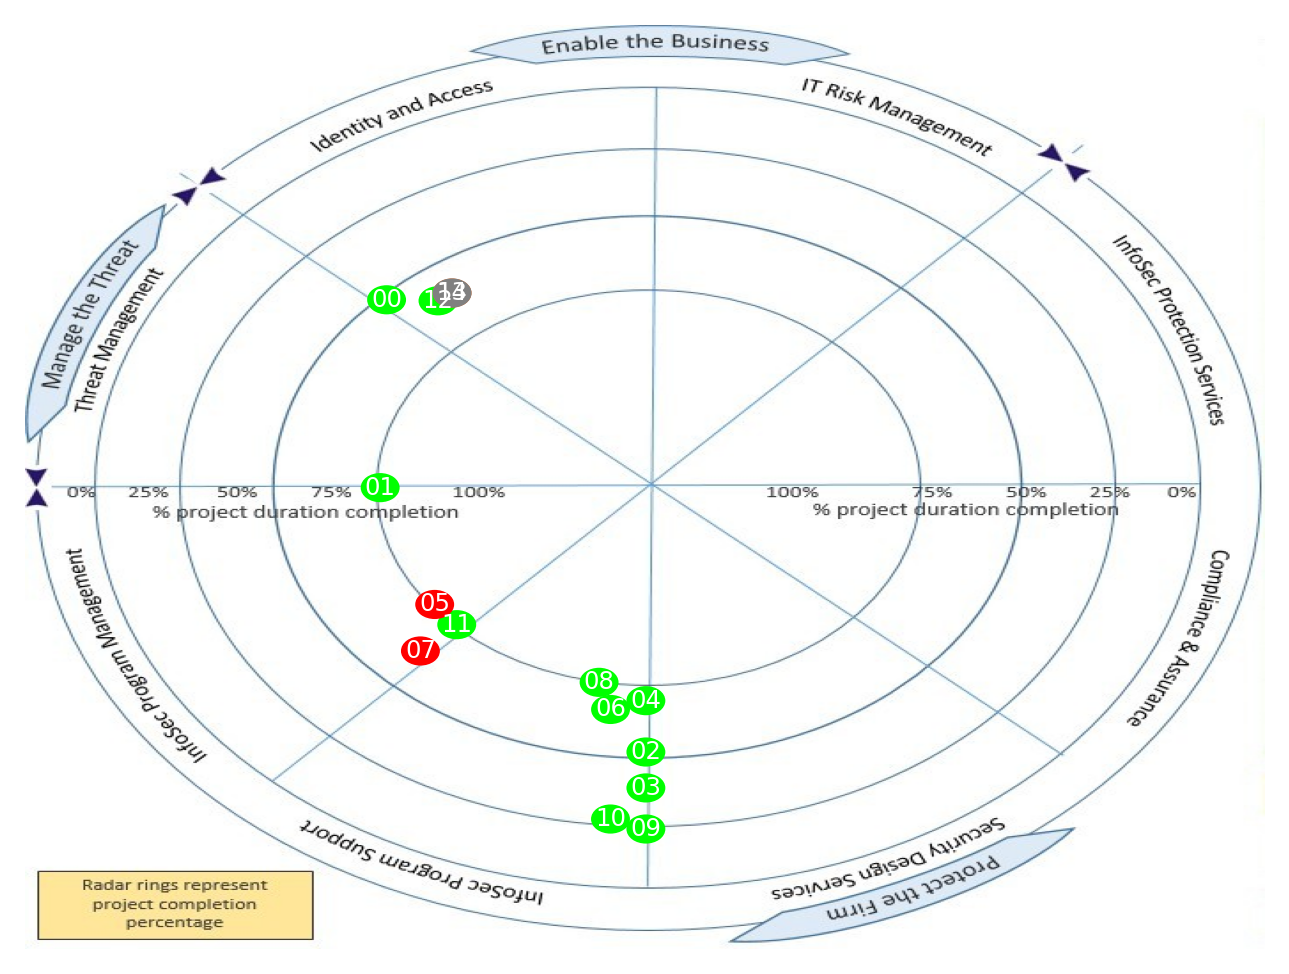
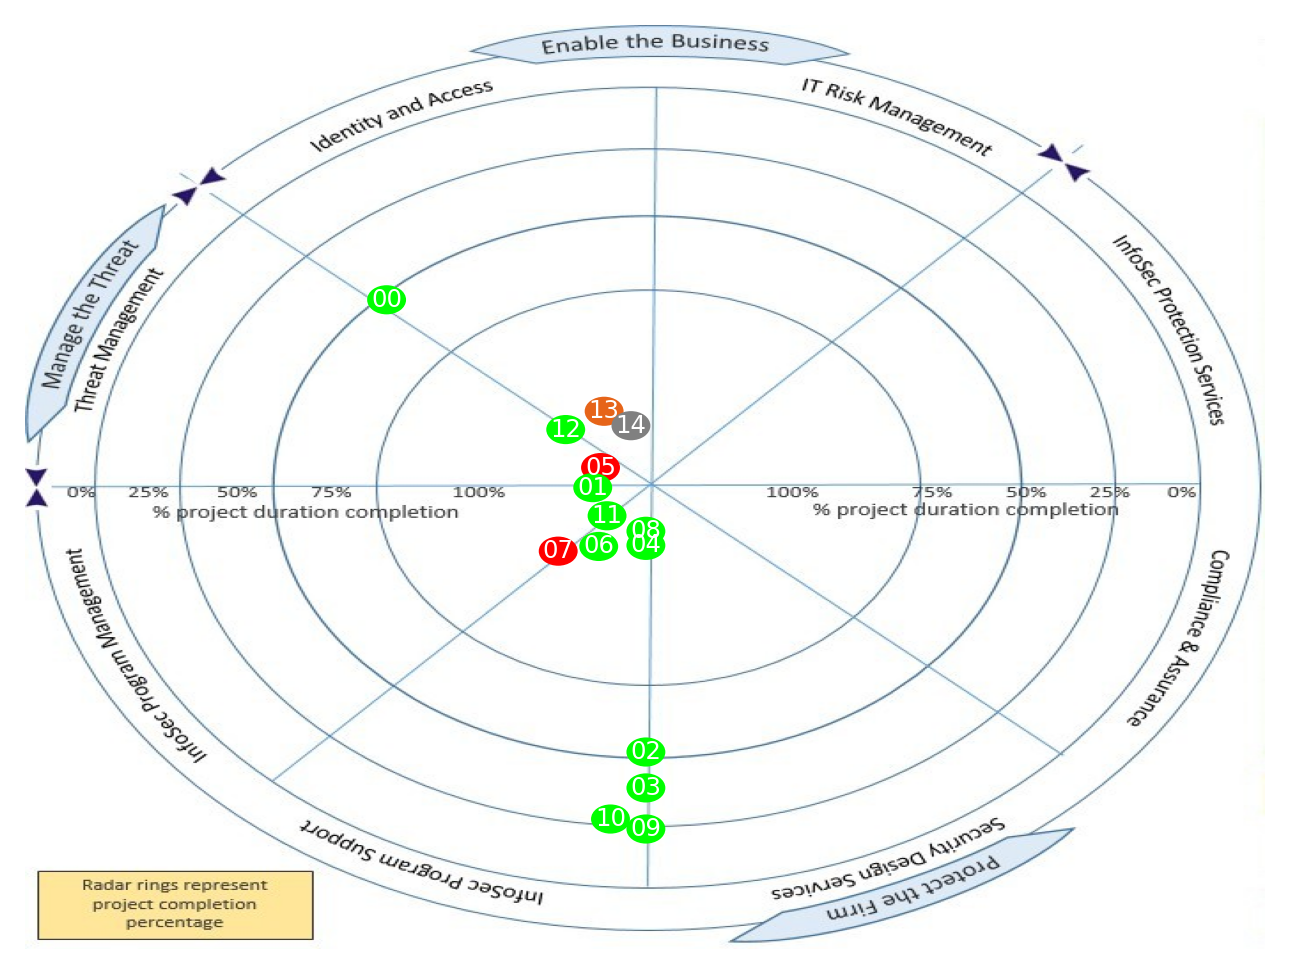
changes

diff --git a/main.py b/main.py
@@ -1,3 +1,5 @@
+# TODO: FIX XLSX FILE
+
 from operator import ge
 import openpyxl
 import pandas as pd
@@ -118,10 +120,11 @@ def generate_excel(radar_ids: list[str], names: list[list[str]]) -> None:
 def calculate_position(percent: float, positions: list[list[list]], idx: int, angle_bounds: list[float]) -> list[float]:
     # radius_of_each_circle = 10 # - not to be confused with the radius that equals dist. from circle's center to the center of the graph circle
     # NOTE: each position should be in the format [angle, radius, id, health]
-    print(f"percent: {percent}")
 
-    if 75 <= percent <= 100:
-        ideal_radius = round(150 * (1 - percent))
+    if 0.75 <= percent <= 1:
+        # print("yaslhflksdjflkjsdflkj")
+        # print(f"percent: {percent}")
+        ideal_radius = round(150 * (1 - percent) + 15)
         current_radius = ideal_radius
         iterations = 0
         too_small = False
@@ -129,9 +132,9 @@ def calculate_position(percent: float, positions: list[list[list]], idx: int, an
             # where R is the radius length from 75%-100%
             current = [i for i in sorted(positions[idx]) if abs(current_radius - i[1]) <= 20]
             if len(current) == 0:
-                return [current_radius, angle_bounds[0]] # Might have to add shifting factor
+                return [current_radius + 15, angle_bounds[0]] # Might have to add shifting factor
             elif len(current) == 1:
-                return [current_radius, angle_bounds[0] + (20 / current_radius)] # arc_length/radius
+                return [current_radius + 15, angle_bounds[0] + (20 / current_radius)] # arc_length/radius
             
             for i in range(1, len(current)):
                 angle = current[i][0] - current[i - 1][0]
@@ -202,10 +205,10 @@ def main() -> None:
     print(list(df.columns))
     # generate_excel(create_radar_ids(), names)
     positions = [[], [], [], [], [], [], [], [], []] # list[list[list[float, float, str, str]]] theta, r, id, health
-    print(len(names))
-    print(*[len(name) for name in names])
+    # print(len(names))
+    # print(*[len(name) for name in names])
     for i in range(len(names)):
-        print(names[i])
+        # print(names[i])
         for name in names[i]:
             row_num = 0
             for j in range(len(df["Project Name"])):
@@ -214,6 +217,7 @@ def main() -> None:
                     break
             # TODO: r is wrong
             percent = df["%Project Duration Completed2"][row_num]
+            # print(ids[row_num])
             match df["Service Category"][row_num]:
                 case "InfoSec Protection Services":
                     # 0 - pi/4
